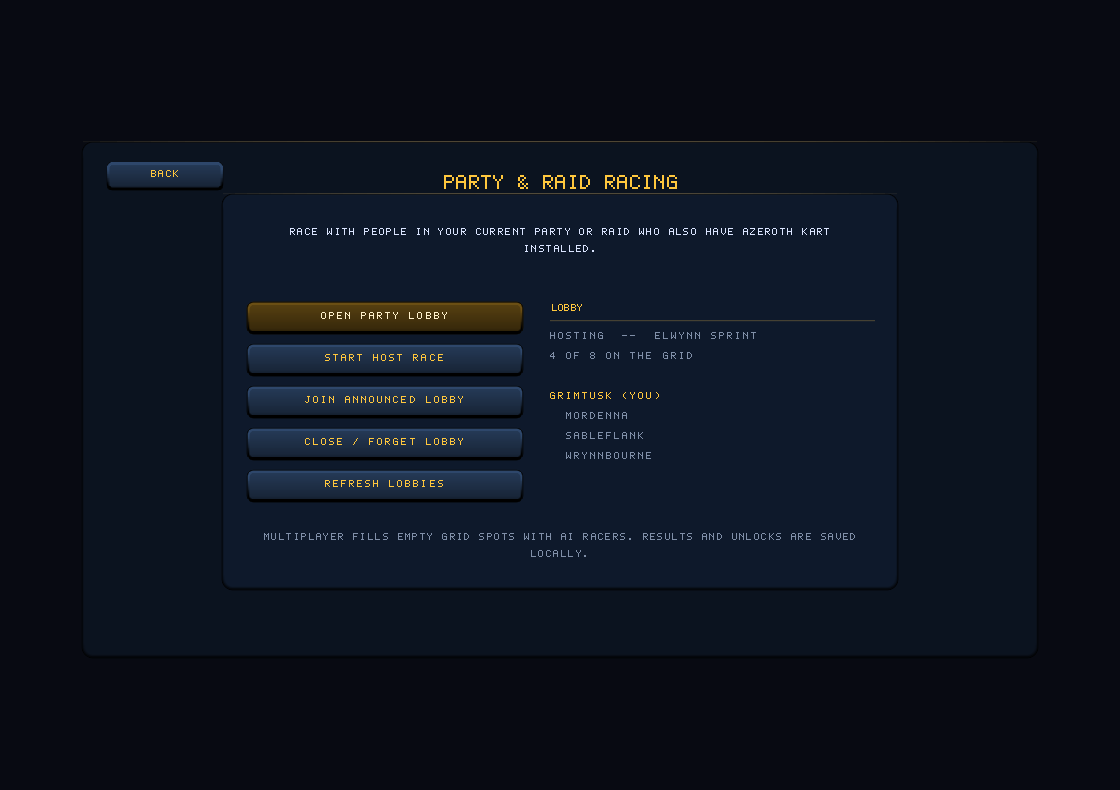
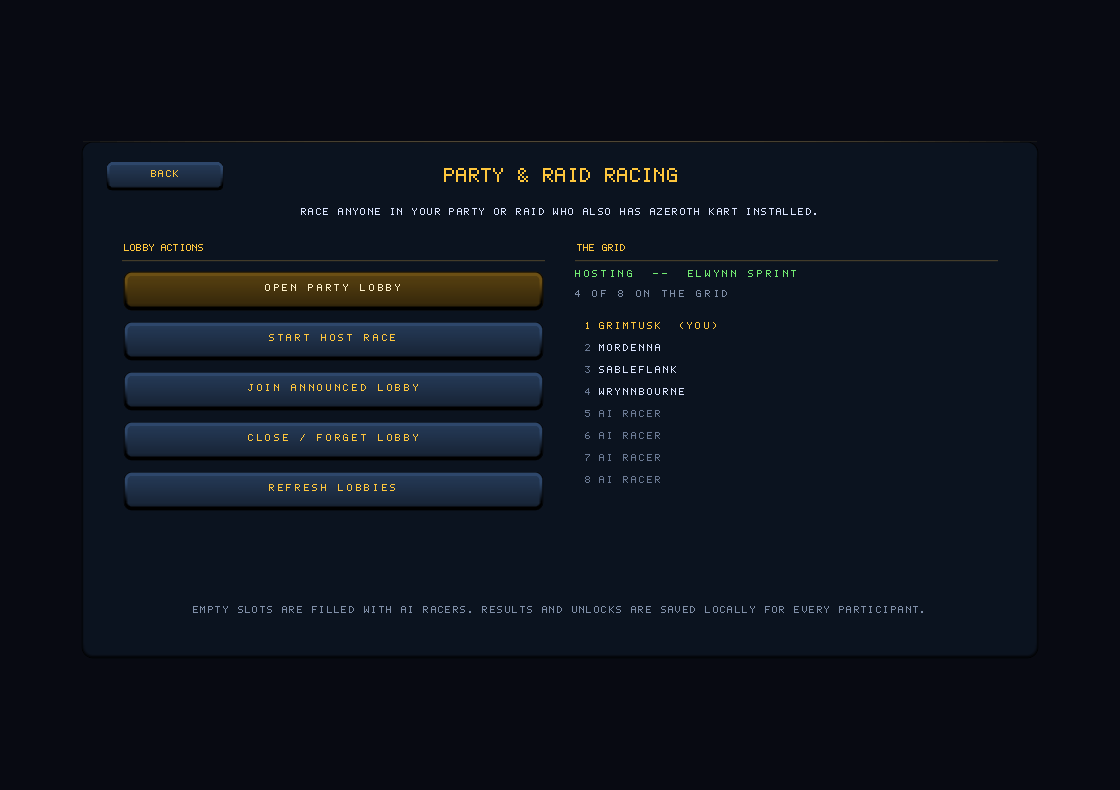
The distance stopped strobing, and the crowd got off the road
Four things, all from watching a real capture rather than a still.

THE HAZE WAS A SLAB. SetVertexColor and SetGradient write the same
per-vertex state, so the solid colour applied after the gradient simply
replaced it -- the horizon band came out flat lavender across the whole
far field instead of fading into it. Both bands now set the gradient
last. This, and not the anti-aliasing below, is what was making the
distance hard to read.

THE TUNNEL WALLS WERE VERTICAL STREAKS. Their V ran with distance while
their U stood still, so the brick slid the wrong way along the wall. U
now slides with z and V spans the wall's real height.

PATTERN ALIASING, MEASURED IN METRES. 1/z sampling is a singularity: the
last near strip covers about 54 metres of road in five pixels, so a
stripe period judged in pixels says nothing. stripeFade() compares the
pattern's period against the strip's z-extent and dissolves a pattern
toward its own mean as it stops being resolvable; thinLine() keeps a
sub-pixel line at a minimum width and gives back the loss in alpha
rather than letting it flicker in and out between frames. Honestly, the
measured effect is small -- far-field frame-to-frame change moved 21.47
to 21.39 -- but it is the part that was actually strobing.

THE JUMP. The camera stayed pinned to the road while the kart left it,
so a launch threw the sprite up the screen and out of frame. The camera
now lifts on a sine through the airborne window and the sprite's own
[…]

diff --git a/Art/preview-render.js b/Art/preview-render.js
@@ -65,6 +65,38 @@ function edge(x0, y0, x1, y1, width, r, g, b, a = 1) {
 }
 const clamp01 = (v) => v < 0 ? 0 : v > 1 ? 1 : v;
 
+/**
+ * How much of a repeating pattern survives at this distance -- the mirror of
+ * `stripeFade` in UI/RaceUI.lua. Every periodic thing on the road plane is
+ * sampled once per strip, so past the point where one period is shorter than
+ * one strip the phase is decided by where the sample lands, and that moves
+ * every frame. Measured off a recording, the far road's mean brightness swung
+ * forty values in one frame. Fading a pattern to its own average is the only
+ * stable thing left to draw.
+ */
+const STRIPE_RESOLVE = 2.6;
+function stripeFade(period, dzSpan) {
+  return clamp01((period / Math.max(0.01, dzSpan) - 1) / STRIPE_RESOLVE);
+}
+/**
+ * A line thinner than a pixel must not be drawn at full strength -- the mirror
+ * of `thinLine` in UI/RaceUI.lua. Keep the minimum width and give back in alpha
+ * exactly what was taken in width, so the ink matches the geometry and the line
+ * fades out instead of jumping a whole pixel between frames.
+ */
+const THIN_PIXELS = 1.6;
+function thinLine(width) {
+  if (width >= THIN_PIXELS) return [width, 1];
+  return [THIN_PIXELS, Math.max(0, width) / THIN_PIXELS];
+}
+/** Ease a colour toward the average it shares with its opposite number. */
+function towardMean(a, b, keep) {
+  return a.map((v, i) => {
+    const m = (v + b[i]) * 0.5;
+    return m + (v - m) * keep;
+  });
+}
+
 // ---------- TGA loading ----------
 function loadTGA(name) {
   const b = fs.readFileSync(path.join(ART, name));
@@ -517,6 +549,33 @@ ridgeLayer(tex.hills, skyline.hill, -camX * 2.0);
   }
 }
 
+// THE HORIZON HAZE, which this sheet had never drawn at all.
+//
+// Two bands straddling the horizon, fading to nothing at their outer edges, so
+// ground meets sky through air rather than on a cut line. They were invisible
+// here -- which is exactly how a bug in them survived: RaceUI tinted them with
+// SetVertexColor AFTER building the gradient, and those are the same per-vertex
+// state, so the fade was thrown away and what shipped was a FLAT translucent
+// slab seventeen per cent of the screen tall with hard edges, laid across the
+// far field. Photographed on the Deadmines run it is a lavender rectangle over
+// the road, the walls and the sky together. A mirror that does not draw a thing
+// cannot catch it being wrong.
+{
+  const hz = [track.glow[0] * .8, track.glow[1] * .8, track.glow[2] * .85];
+  const belowH = Math.round(H * 0.12), aboveH = Math.round(H * 0.05);
+  for (let y = 0; y < belowH; y++) {
+    // Zero at the top of the band, .30 at the horizon.
+    const a = 0.30 * (y / belowH);
+    const yy = horizonPx - belowH + y;
+    if (yy >= 0) for (let x = 0; x < W; x++) blend(x, yy, hz[0], hz[1], hz[2], a);
+  }
+  for (let y = 0; y < aboveH; y++) {
+    const a = 0.30 * (1 - y / aboveH);
+    const yy = horizonPx + y;
+    if (yy < H) for (let x = 0; x < W; x++) blend(x, yy, hz[0], hz[1], hz[2], a);
+  }
+}
+
 // near tree wall, scaled against the screen and tinted per track
 const spirey = track.style === "oribos" || skyline.treeArt === "shard";
 const skyArt = track.style === "oribos" ? tex.spire : (skyline.treeArt && tex[skyline.treeArt]) || tex.tree;
@@ -700,6 +759,9 @@ for (let r = rows.length - 1; r >= 0; r--) {
   const fog = clamp(1 - (row.dz / HAZE_Z) * T.fogStrength, .22, 1) * roadLight;
   const mix = hazeCap * Math.pow(clamp(row.dz / HAZE_Z, 0, 1), 0.85);
   const idx = Math.floor(row.segZ / STRIPE), dark = idx % 2 === 0;
+  // See stripeFade: below 1 the paving pattern is finer than the sampling and
+  // everything periodic on this strip eases toward its own average.
+  const stripe = stripeFade(STRIPE, row.segZ - row.prevZ);
   const rz=((row.segZ%track.length)+track.length)%track.length;
   const rampSpan = track._ramps.find(r=>rz>=r[0]&&rz<=r[1]);
   const onRamp = !!rampSpan;
@@ -733,7 +795,7 @@ for (let r = rows.length - 1; r >= 0; r--) {
       const gv0 = v0 / GRASS_TILE;
       const gv1 = Math.min(v1 / GRASS_TILE, gv0 + vSpanCap);
       blit(tex.grass, 0, yTop, W, hpx, -uG, uG, gv0, gv1,
-        aerial(verge, (dark ? T.grassContrast : 1) * roadLight, mix), 1);
+        aerial(verge, (dark ? 1 - (1 - T.grassContrast) * stripe : 1) * roadLight, mix), 1);
     }
   }
   // COVER IS DRAWN BEFORE THE ROAD, NOT AFTER IT.
@@ -755,15 +817,26 @@ for (let r = rows.length - 1; r >= 0; r--) {
     const k = wallLight(track.road || [0.4, 0.4, 0.44], tarmacLight, ROCK_TINT, row.cover);
     const tint = ROCK_TINT.map((c) => k * c);
     const ctint = [k * ROCK_TINT[0] * 0.62, k * ROCK_TINT[1] * 0.60, k * ROCK_TINT[2] * 0.58];
-    const v0 = row.prevZ / TUNNEL_TILE, v1 = row.segZ / TUNNEL_TILE;
-    blit(tex.rock, SX(row.midX - row.midHalf - wallOut), SY(row.y + wallH), wallOut, wallH,
-      0, 1.6, v0, v1, tint, 1);
-    blit(tex.rock, SX(row.midX + row.midHalf), SY(row.y + wallH), wallOut, wallH,
-      1.6, 0, v0, v1, tint, 1);
+    // A wall's texture runs UP it: V is height, U carries the travel. See the
+    // note in RenderRoad -- mapping V to the strip's own slice of track
+    // distance drew a four-hundred-pixel wall from a tenth of one texture row,
+    // which is why the tunnel was a beige curtain rather than rock.
+    const v0 = 0, v1 = TUNNEL_HEIGHT / TUNNEL_TILE;
+    const uSlide = row.segZ / TUNNEL_TILE;
+    // On the NARROW quad's edge, not the average -- see RenderRoad. A wall
+    // pinned to the average keeps the staircase the road gave up, and it is
+    // the one boundary the kerb cannot hide because the wall is outboard of it.
+    blit(tex.rock, SX(quadLo - wallOut), SY(row.y + wallH), wallOut, wallH,
+      uSlide, uSlide + 1.6, v0, v1, tint, 1);
+    blit(tex.rock, SX(quadHi), SY(row.y + wallH), wallOut, wallH,
+      uSlide + 1.6, uSlide, v0, v1, tint, 1);
     const ch = Math.max(1, ceilTop - row.ceilY);
     const uC = T.roadHalf / TUNNEL_TILE;
+    // The ceiling IS a floor seen from below, so its V does carry the travel.
+    const cv0 = row.prevZ / TUNNEL_TILE;
+    const cv1 = Math.min(row.segZ / TUNNEL_TILE, cv0 + Math.max(0.08, ch / MIN_TEXEL));
     blit(tex.rock, SX(quadLo - wallOut), SY(row.ceilY + ch),
-      (quadHalf + wallOut) * 2, ch, -uC, uC, v0, v1, ctint, 1);
+      (quadHalf + wallOut) * 2, ch, -uC, uC, cv0, cv1, ctint, 1);
   } else if (pass === 1 && onRamp) {
     // Side rails along a launch ramp. Physics:VergeHasWall walls exactly
     // tunnels and ramps, so these are the other place a barrier exists and the
@@ -807,13 +880,17 @@ for (let r = rows.length - 1; r >= 0; r--) {
     // gold tint at two brightnesses is a road that has turned mustard.
     let rampPaint = null;
     if (onRamp) {
+      // 2.4m bands alias sooner than the paving -- and a ramp is most of what
+      // you are looking at on the approach. Same easing. See stripeFade.
+      const rampStripe = stripeFade(2.4, row.segZ - row.prevZ);
       rampPaint = (Math.floor(row.segZ / 2.4) % 2 === 0)
-        ? [1.00, 0.78, 0.10] : [0.13, 0.10, 0.06];
+        ? towardMean([1.00, 0.78, 0.10], [0.22, 0.16, 0.07], rampStripe)
+        : towardMean([0.22, 0.16, 0.07], [1.00, 0.78, 0.10], rampStripe);
       if (toLip !== null && toLip < 2.2) rampPaint = [1.00, 0.97, 0.88];
     }
     const tint = rampPaint
       ? aerial(rampPaint, tarmacLight * meanFix, mix)
-      : aerial(legible(base, tarmacLight), (dark ? .96 : 1) * meanFix, mix);
+      : aerial(legible(base, tarmacLight), (dark ? 1 - 0.04 * stripe : 1) * meanFix, mix);
     if (flatRoad) {
       rect(SX(quadX - quadHalf), yTop, quadHalf * 2, hpx, ...tint, 1);
     } else {
@@ -826,12 +903,20 @@ for (let r = rows.length - 1; r >= 0; r--) {
       blit(tex.roadshade, SX(quadX - quadHalf), yTop, quadHalf * 2, hpx,
         0, 1, 0, 1, [0, 0, 0], 0.85 * (1 - mix));
   }
-  const rw = clamp(row.midHalf * (track.style === "oribos" ? .055 : .05), 1, 20);
+  const [rw, kerbAlpha] = thinLine(
+    clamp(row.midHalf * (track.style === "oribos" ? .055 : .05), 0.2, 20));
   let rr, rg, rb;
   if (track.style === "oribos") {
     const pulse = .55 + .45 * Math.sin(row.segZ * .28);
     [rr, rg, rb] = dark ? [1 * pulse, .72 * pulse, .28 * pulse] : [.30 * pulse, .82 * pulse, 1 * pulse];
-  } else [rr, rg, rb] = dark ? [.95,.95,.96] : [.82,.22,.18];
+  } else {
+    // The kerb is the worst of the aliasing: the highest-contrast pattern in
+    // the frame, on a line one strip wide. Eased to the pink it averages to,
+    // which is what a red-and-white kerb looks like from two hundred metres.
+    [rr, rg, rb] = dark
+      ? towardMean([.95, .95, .96], [.82, .22, .18], stripe)
+      : towardMean([.82, .22, .18], [.95, .95, .96], stripe);
+  }
   if(onRamp){ const fl=0.8; rr=1.0*fl; rg=0.85*fl; rb=0.25*fl; }
   // Kerbs are part of the road surface: they take the tarmac's lighting, not
   // the rock's. In a tunnel they are the only thing marking where the edge is.
@@ -847,16 +932,22 @@ for (let r = rows.length - 1; r >= 0; r--) {
     if (!quadNarrow) { nl = fl = quadLo; nr = fr = quadHi; }
     const travelL = Math.abs(fl - nl);
     edge(SX(nl + (travelL - rw) / 2), SY(row.y), SX(fl + (travelL - rw) / 2),
-      SY(row.y + row.h), rw + travelL, rc[0], rc[1], rc[2], 1);
+      SY(row.y + row.h), rw + travelL, rc[0], rc[1], rc[2], kerbAlpha);
     const travelR = Math.abs(fr - nr);
     edge(SX(nr - (travelR - rw) / 2), SY(row.y), SX(fr - (travelR - rw) / 2),
-      SY(row.y + row.h), rw + travelR, rc[0], rc[1], rc[2], 1);
+      SY(row.y + row.h), rw + travelR, rc[0], rc[1], rc[2], kerbAlpha);
   }
-  if (idx % 4 < 2 && row.midHalf > 6) {
-    const lw = clamp(row.midHalf * .04, 1, 14);
+  // The dashes merge into a faint continuous line rather than flickering on and
+  // off -- their period is eighteen metres, so past the resolve limit whether a
+  // strip lands on a dash or a gap is a coin toss per frame. See RenderRoad.
+  const laneFade = stripeFade(STRIPE * 4, row.segZ - row.prevZ);
+  const laneAlpha = 0.75 * ((idx % 4 < 2) ? laneFade : 0) + 0.75 * 0.5 * (1 - laneFade);
+  if (laneAlpha > 0.03 && row.midHalf > 6) {
+    const [lw, laneThin] = thinLine(clamp(row.midHalf * .04, 0.2, 14));
     const lc = aerial([.96, .95, .82], tarmacLight, mix);
     const ln = quadNarrow ? row.nearX : row.midX, lf = quadNarrow ? row.farX : row.midX;
-    edge(SX(ln), SY(row.y), SX(lf), SY(row.y + row.h), lw, lc[0], lc[1], lc[2], .75);
+    edge(SX(ln), SY(row.y), SX(lf), SY(row.y + row.h), lw, lc[0], lc[1], lc[2],
+      laneAlpha * laneThin);
   }
 
 }
@@ -1138,13 +1229,17 @@ for (let s = 23; s >= 0; s--) {
   const pz = (firstPost + s) * T.postSpacing, dz = pz - camZ;
   if (dz > 1 && dz < furnitureReach(119)) {
     const [x, y, ppm] = project(dz, bend(dz), roadHeight(pz));
-    const hwp = ppm * T.roadHalf, w = Math.max(1, ppm * .18), h = Math.max(2, ppm * 1.15);
+    // Sub-pixel posts fade rather than jump a whole pixel a frame -- see
+    // thinLine. They are the second-brightest flicker in a frame difference.
+    const hwp = ppm * T.roadHalf;
+    const [w, thin] = thinLine(ppm * .18);
+    const h = Math.max(2, ppm * 1.15);
     const fog = clamp(1 - (dz / HAZE_Z) * T.fogStrength, .22, 1);
     const red = (firstPost + s) % 2 === 0;
     const c = aerialAt(red ? [.88, .26, .20] : [.95, .95, .96], fog, dz);
     const off = hwp + w * 2.2;
-    rect(SX(x - off), SY(y) - h, w, h, ...c, 1);
-    rect(SX(x + off), SY(y) - h, w, h, ...c, 1);
+    rect(SX(x - off), SY(y) - h, w, h, ...c, thin);
+    rect(SX(x + off), SY(y) - h, w, h, ...c, thin);
   }
 }
 
